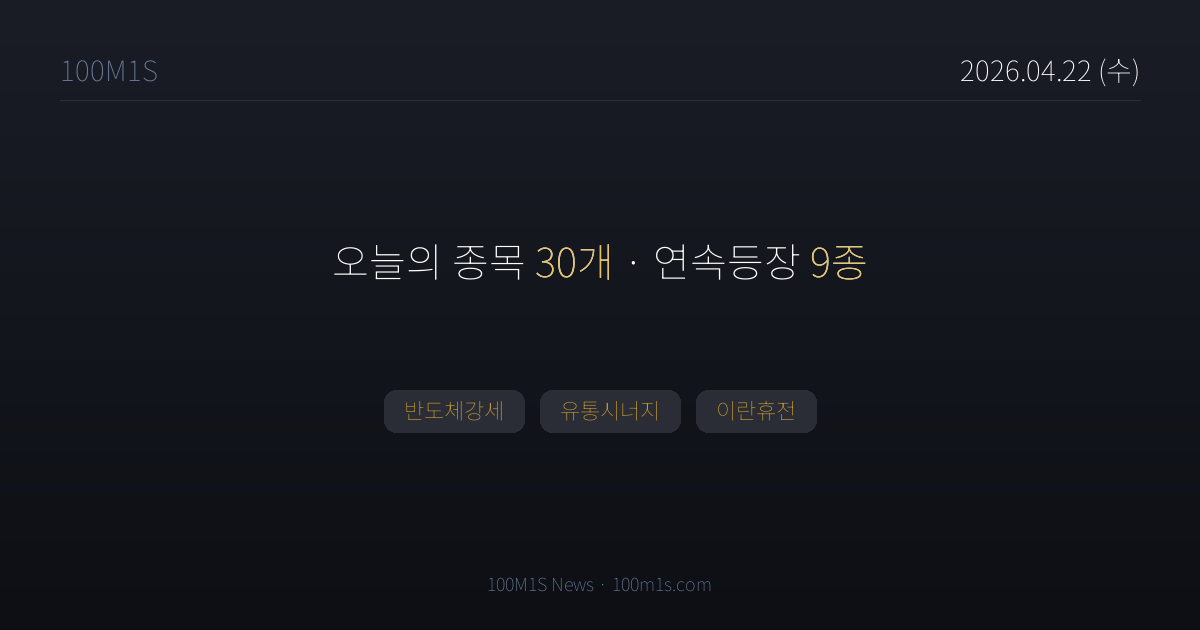
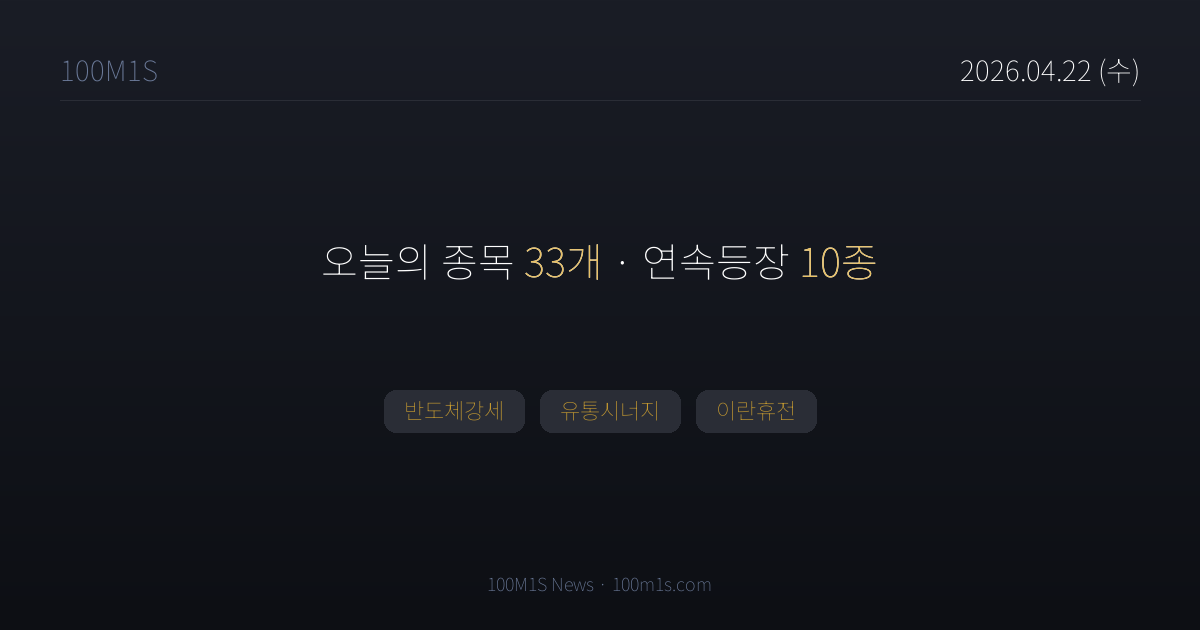
chore(news): 2026-04-22T13:58 pipeline

Changed region(s): [[0.2775, 0.3921, 0.74, 0.4524]]

diff --git a/news/stock/2026-04-22.html b/news/stock/2026-04-22.html
@@ -3,7 +3,7 @@
 <head>
 <meta charset="UTF-8">
 <title>4월 22일 (수) 뉴스 — 100M1S</title>
-<meta property="og:title" content="4월 22일 (수) · 종목 30개">
+<meta property="og:title" content="4월 22일 (수) · 종목 33개">
 <meta property="og:description" content="반도체강세, 유통시너지, 이란휴전">
 <meta property="og:image" content="https://100m1s.com/og/news/stock/2026-04-22.png">
 <meta property="og:image:width" content="1200">
